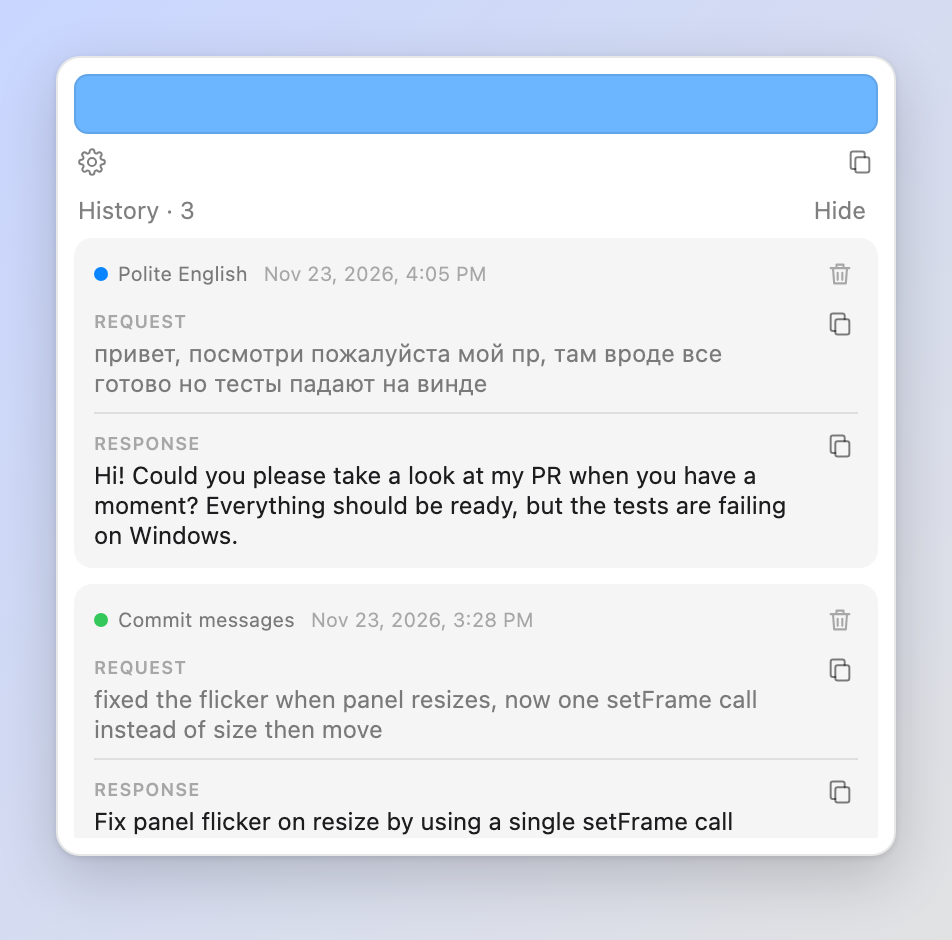
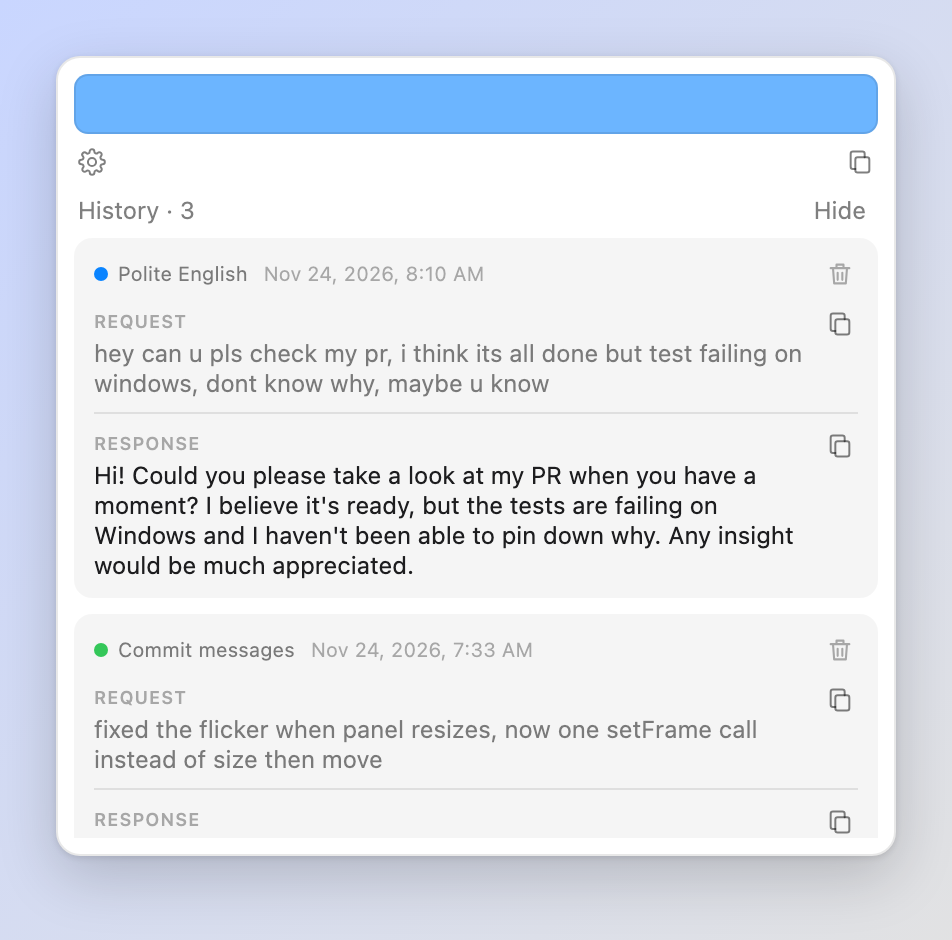
Shorten README, show rough-to-polished example

diff --git a/README.md b/README.md
@@ -1,120 +1,57 @@
 # Fast Mode
 
-A tiny always-on-top panel that sends text to Claude and puts the answer straight on the clipboard.
-
-You type or paste something, Claude rewrites it using a system prompt you choose, and the result is ready to paste with ⌘V. A global shortcut does the same from any app without switching windows: copy text, press ⌃⌥V, wait for the spinner, paste.
-
-The default prompt turns rough notes (in any language) into polite, natural English. Fast Mode is not a chat: every request is a one-off rewrite.
-
-<p align="center">
-  <img src="docs/screenshots/typing.png" width="476" alt="Expanded panel with a Russian request typed in">
-</p>
-
-## How it works
-
-Fast Mode is a [Tauri 2](https://tauri.app) app. It runs your installed [Claude Code](https://docs.claude.com/en/docs/claude-code) CLI:
-
-```
-claude -p --output-format json --system-prompt-file <active project prompt> [--model …]
+```mermaid
+flowchart LR
+  A["⌘C"]:::a --> B["Hotkey (⌃⌥V)"]:::b --> C["claude -p {magic}"]:::c --> D["Clipboard"]:::d --> E["⌘V"]:::e
+  classDef a fill:#e5e5ea,stroke:#8e8e93,color:#1d1d1f
+  classDef b fill:#0a84ff,stroke:#0060df,color:#fff
+  classDef c fill:#ff9f0a,stroke:#c77700,color:#fff
+  classDef d fill:#34c759,stroke:#248a3d,color:#fff
+  classDef e fill:#e5e5ea,stroke:#8e8e93,color:#1d1d1f
 ```
 
-The reply is copied to the clipboard and saved to history along with the raw JSON (cost, token usage, session). It uses your Claude Code sign-in, so there are no API keys to configure.
+A small always-on-top panel for jobs you keep asking Claude to do the same way. Each **project** is a system prompt with a color: rewrite in polite English, write a commit message, summarize a thread, and so on.
 
-## The panel
+<p align="center"><img src="docs/screenshots/typing.png" width="476" alt="Rough English typed into the panel"></p>
 
-When idle the panel is a 70×70 square that stays on top of all windows and Spaces. Drag it anywhere and it remembers the position. While another app is focused it fades to the opacity you set in Settings.
+**`{magic}`:** the active project's system prompt. The default one is "Rewrite the text in natural, polite English. Translate it if it's in another language. Output only the result."
 
-<table>
-  <tr>
-    <td align="center"><img src="docs/screenshots/compact.png" width="126" alt="Idle panel"><br><sub>Idle</sub></td>
-    <td align="center"><img src="docs/screenshots/copied.png" width="126" alt="Panel after a reply was copied"><br><sub>Copied ✓</sub></td>
-    <td align="center"><img src="docs/screenshots/busy.png" width="126" alt="Panel working on a hotkey request"><br><sub>Hotkey request running</sub></td>
-  </tr>
-</table>
+**Claude's reply**, already on your clipboard:
 
-- **Type**, and the panel expands. **⌘↩** (Ctrl+↩ on Windows/Linux) sends, and **↩** adds a new line.
-- **Paste into an empty field** to send it immediately.
-- **Global shortcut** (default **⌃⌥V**) sends the current clipboard from any app without taking focus. Pressing it again during a request cancels that request and starts a new one.
-- **Esc**, or a click on the spinner, cancels.
-- When the answer is on the clipboard you see a green check. The copy button puts the last answer back on the clipboard.
-- The input box is tinted in the active project's color, so you can tell which prompt is in use.
+> Hi! Could you please take a look at my PR when you have a moment? I believe it's ready, but the tests are failing on Windows and I haven't been able to pin down why. Any insight would be much appreciated.
 
-The ⚙ menu switches the project and model, opens history, shows the signed-in account, links to **Usage & Limits**, and opens Settings.
+**History:**
 
-### History
+<p align="center"><img src="docs/screenshots/result.png" width="476" alt="The same text rewritten in polished English"></p>
 
-Each entry keeps the request, the response, the project it used, and the raw CLI JSON. Click an entry to expand it. Every part has its own copy button. Up to 300 entries are kept.
+| <img src="docs/screenshots/compact.png" width="100"> | <img src="docs/screenshots/busy.png" width="100"> | <img src="docs/screenshots/copied.png" width="100"> |
+| :-: | :-: | :-: |
+| idle | working | copied |
+
+## Use
+
+- **A global hotkey** (you pick it in Settings) sends the clipboard from any app, and the reply replaces it. You never leave the app you are in.
+- **Paste** into the empty panel to send right away, or type and press **⌘↩**.
+- **Esc** cancels.
+- **⚙** switches the project and model, and opens history and settings.
 
 <p align="center">
-  <img src="docs/screenshots/history.png" width="476" alt="History list">
+  <img src="docs/screenshots/history.png" width="380" alt="History">
+  <img src="docs/screenshots/settings.png" width="380" alt="Settings">
 </p>
 
-## Settings and projects
+## Install
 
-A **project** is a named system prompt with a color. Use several of them for different jobs, such as polite English, commit messages, or Slack tone, and switch between them from the ⚙ menu.
+Needs [Claude Code](https://docs.claude.com/en/docs/claude-code) installed and signed in. Fast Mode runs `claude -p` with your account, so no API key is needed.
 
-<p align="center">
-  <img src="docs/screenshots/settings.png" width="560" alt="Settings window">
-</p>
-
-Settings also covers:
-
-- the global shortcut (click the field and press a combination; ✕ removes it)
-- the model: Default, Haiku, Sonnet, or Opus
-- the panel's opacity when it is not focused
-
-### The default prompt
-
-[`src-tauri/default-prompt.md`](src-tauri/default-prompt.md) is a rewrite prompt:
-
-- `mode@"text"` rewrites `text` in the given style, for example `formal@"…"` or `short@"…"`.
-- English text with no mode is rewritten in a natural, polite tone.
-- Text in another language with no mode is translated into polite English.
-- Lines starting with `> ` are quotes and stay unchanged.
-- A message starting with `**` is a direct instruction to Claude, not text to rewrite.
-- Markdown is returned raw, so it pastes as plain text.
-
-## Requirements
-
-- [Claude Code](https://docs.claude.com/en/docs/claude-code) installed, with `claude` on your `PATH` or in a standard install location. If you are not signed in, the panel shows a **Sign in…** link, which runs `claude auth login` in a terminal.
-- To build: Node.js and a Rust toolchain ([Tauri prerequisites](https://tauri.app/start/prerequisites/)).
-
-## Build and run
+To build from source you also need Node.js and [Rust](https://tauri.app/start/prerequisites/).
 
 ```bash
 npm install
 ```
 
 ```bash
-npm run dev
-```
-
-```bash
-npm run build
-```
-
-On macOS, this builds the app, installs it to `/Applications`, and starts it:
-
-```bash
 npm run install:mac
 ```
 
-## Data
-
-Settings, projects, and history are stored as JSON in the platform data directory:
-
-| OS | Path |
-| --- | --- |
-| macOS | `~/Library/Application Support/FastMode/` |
-| Windows | `%APPDATA%\FastMode\` |
-| Linux | `~/.local/share/FastMode/` |
-
-## Project layout
-
-```
-src/                  panel (index.html, main.js, style.css) and settings.html
-src-tauri/src/lib.rs  backend: claude CLI, clipboard, global shortcut, window handling
-src-tauri/default-prompt.md
-Icon/                 app icon sources
-docs/screenshots/     images for this README
-```
+On Windows or Linux use `npm run build`, and `npm run dev` while developing.
